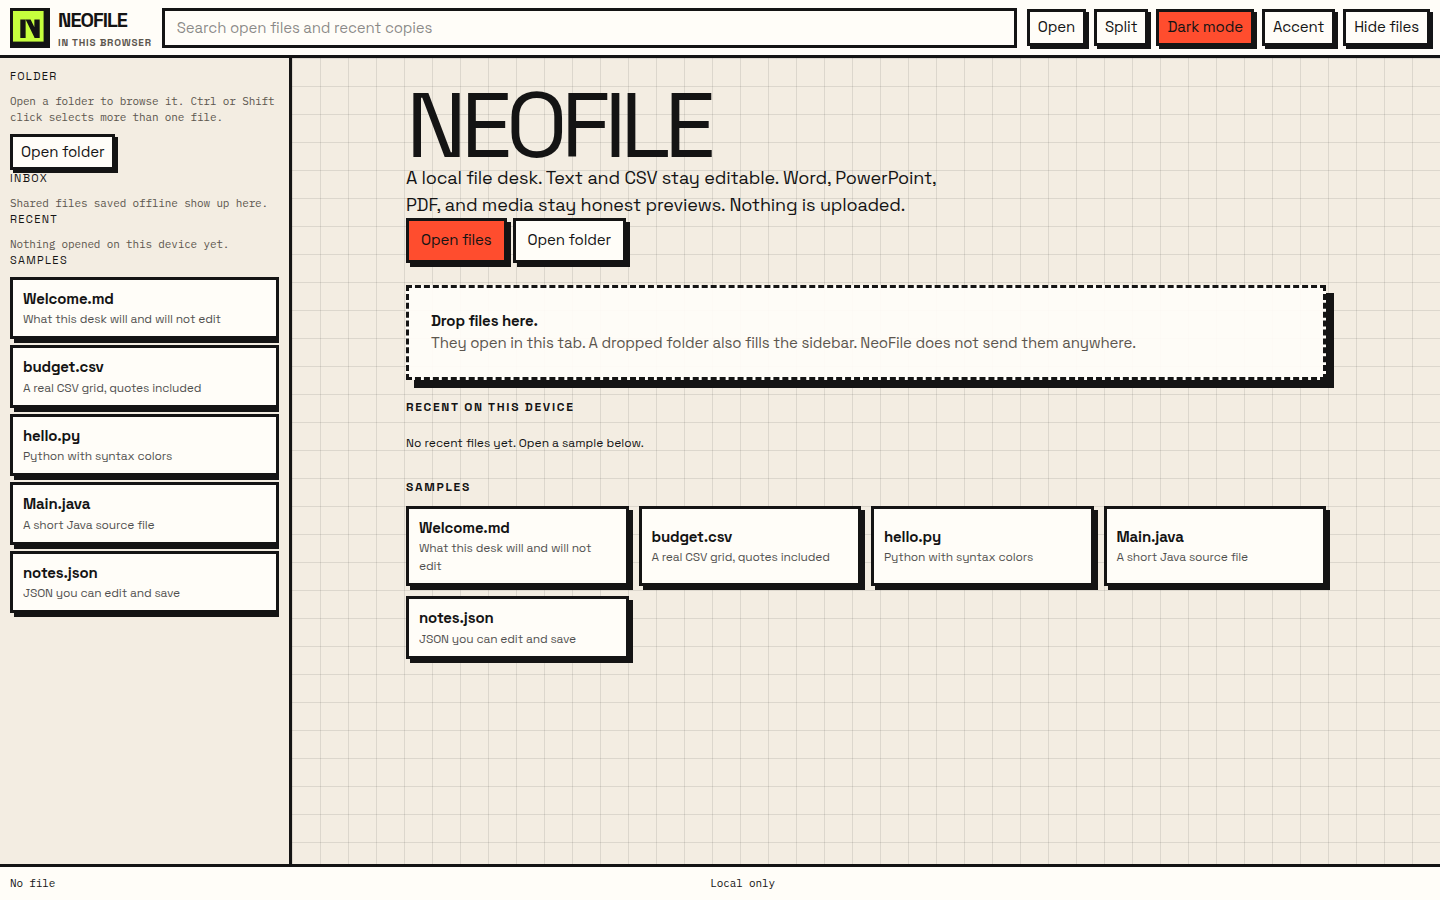
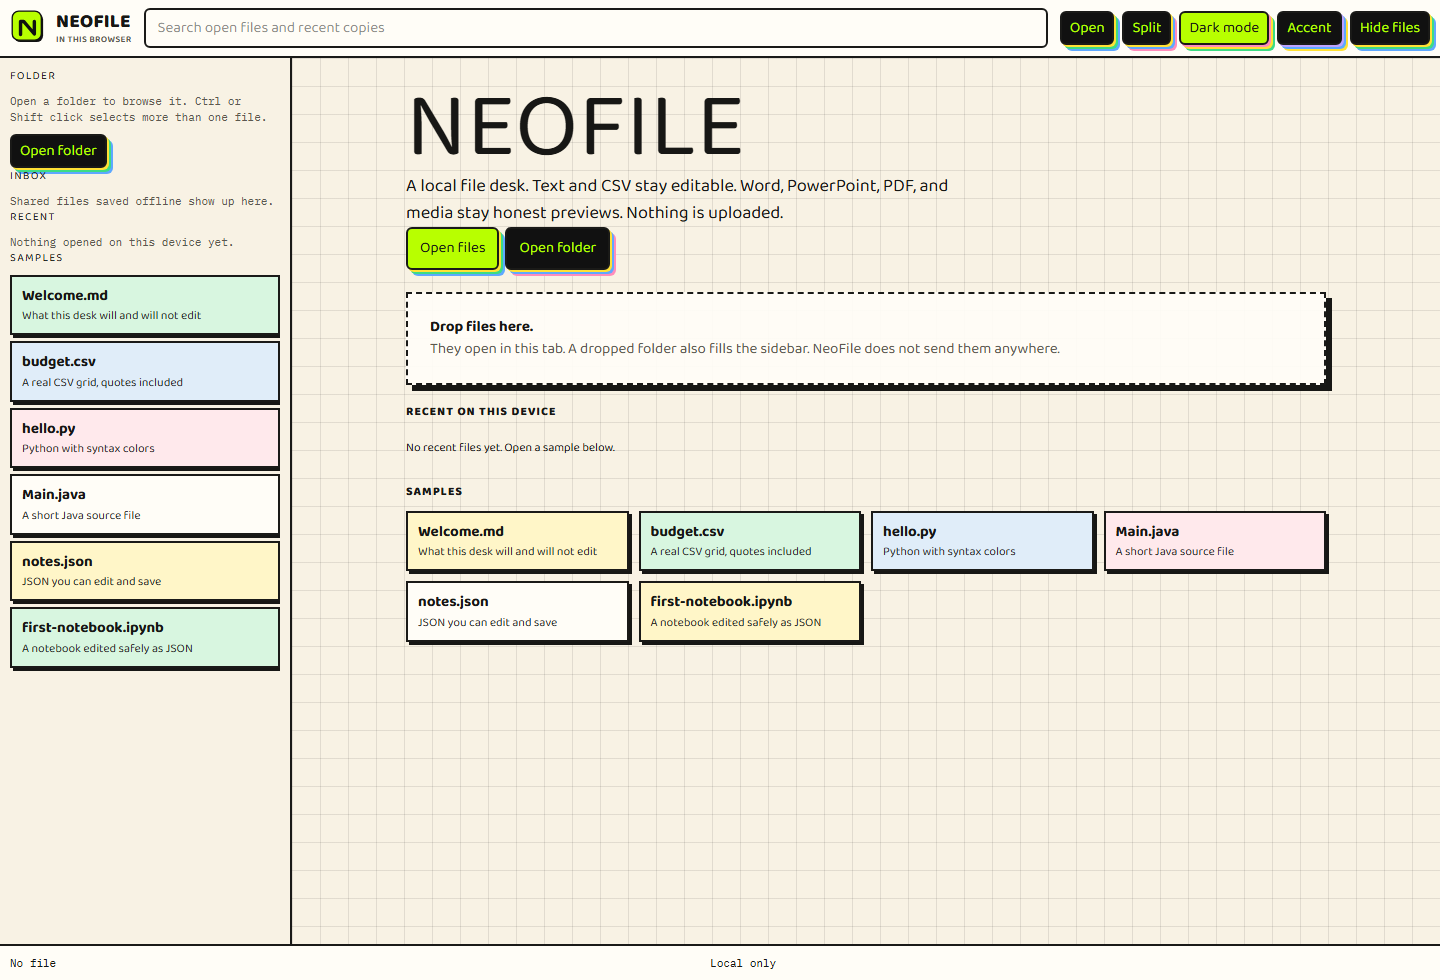
Refresh web desk presentation

Changed region(s): [[0.0, 0.0, 1.0, 0.7467], [0.0, 0.9333, 1.0, 0.9956]]

diff --git a/apps/web/src/components/EditorHost.tsx b/apps/web/src/components/EditorHost.tsx
@@ -17,7 +17,7 @@ export function EditorHost({ doc, pane }: { doc: DocMeta | null; pane: "primary"
   const store = useStore();
   const [hiddenLimit, setHiddenLimit] = useState(false);
   const [mdMode, setMdMode] = useState<"edit" | "preview" | "split">("edit");
-  const [wrap, setWrap] = useState(false);
+  const [wrap, setWrap] = useState(true);
   if (!doc) {
     return (
       <section className={`editor-pane ${store.focus === pane ? "focused" : ""}`} onMouseDown={() => store.setFocus(pane)}>

diff --git a/README.md b/README.md
@@ -6,7 +6,8 @@
 
 <p align="center">
   An offline file desk for Android, Windows, macOS, iOS, and Linux.<br>
-  Edit text, code, configuration files, CSV, and notebook JSON. Documents and media stay honest previews.
+  Edit text, code, configuration files, CSV, and notebook JSON. Documents and media stay honest previews.<br>
+  <a href="https://himanshu-5680.github.io/NeoFile/desk/">Open the NeoFile web desk</a>
 </p>
 
 <p align="center">
@@ -25,13 +26,18 @@
 </p>
 
 <p align="center">
-  <img src="docs/screenshots/desktop-light.png" width="720" alt="NeoFile on a desktop in light mode, editing a Markdown file">
-  <img src="docs/screenshots/desktop-dark.png" width="720" alt="NeoFile on a desktop in dark mode">
+  <img src="docs/screenshots/desktop-light.png" width="720" alt="NeoFile web desk in light mode, editing a Markdown file">
+  <img src="docs/screenshots/desktop-dark.png" width="720" alt="NeoFile web desk in dark mode, editing a Markdown file">
 </p>
 
 <p align="center">
-  <img src="docs/screenshots/mobile-light.png" width="240" alt="NeoFile on a phone in light mode">
-  <img src="docs/screenshots/mobile-dark.png" width="240" alt="NeoFile on a phone in dark mode">
+  <img src="docs/screenshots/mobile-light.png" width="240" alt="NeoFile web desk on a phone in light mode">
+  <img src="docs/screenshots/mobile-dark.png" width="240" alt="NeoFile web desk on a phone in dark mode">
+</p>
+
+<p align="center">
+  <img src="docs/screenshots/desktop-light-home.png" width="720" alt="NeoFile web desk home screen in light mode">
+  <img src="docs/screenshots/desktop-light-sheet.png" width="720" alt="NeoFile CSV spreadsheet editor in light mode">
 </p>
 
 ## Download
